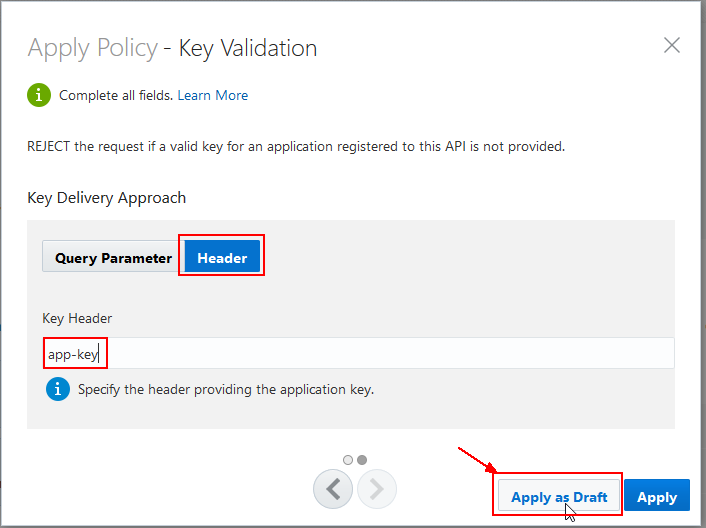
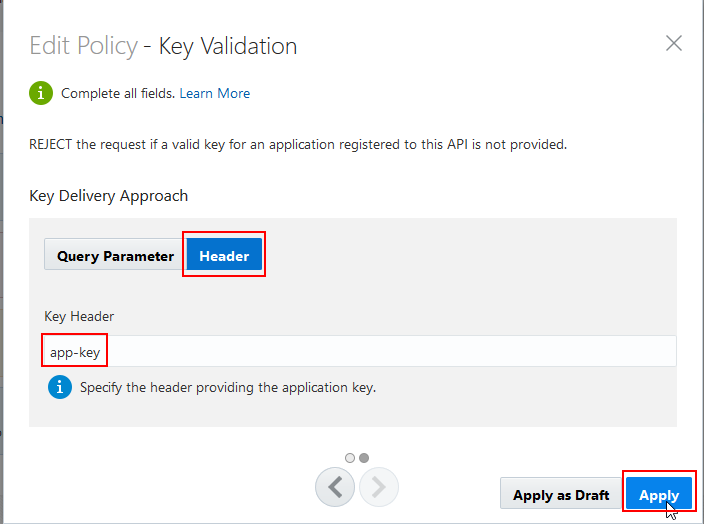
Lab 400 section 1.4 complete

Changed region(s): [[0.0, 0.0, 1.0, 1.0], [0.0625, 0.4275, 0.375, 0.5496]]

diff --git a/workshops/ttc-apipcs-workshop/ics300.md b/workshops/ttc-apipcs-workshop/ics300.md
@@ -70,7 +70,7 @@ To configure the key validation policy:
 
 **1.1.3.4** Enter the text `app-key` into the Header field. The application key must be sent in a header named `app-key` for the request to be passed to the next policy or to the service request endpoint.
 
-**1.1.3.5** Click `Apply as Draft`.  This will create the policy but it won't be deployed onto the gateway at this point.
+**1.1.3.5** Click `Apply`.
 
 ![](images/300/image004.png)
 
@@ -162,7 +162,23 @@ To re-deploy the API:
 
 **1.3.7** The URL should look something like this: http://oc-129-144-152-17.compute.oraclecloud.com:9022/helloworlduser10
 
-### 1.4 Re-Test the API with Policies
+### 1.4 Initial Re-Test the API with Policies
 
 ------
+
+**1.4.1** (Pre-Req) Follow the steps in Lab 200, section 1.1.5 again to setup the Postman API Test.  This should still be setup in your Postman instance unless it was closed.
+
+**1.4.1** Select the `Send` button again in Postman to query the API.
+
+Note that the API will not work anymore because there is no application key passed in the header.  The `Key Validation` policy enforcement returned a `401 Unauthorized` error.
+
+![](images/300/image016.png)
+
+**1.4.2** What we need to do now is get an `API Key`.  The API Key is obtained by registering an `Application` against our API.  The next section will step you through the Application setup and registration against the API.
+
+### 1.5 Application Creation and Registration
+
+------
+
+**1.5.1** 
 
